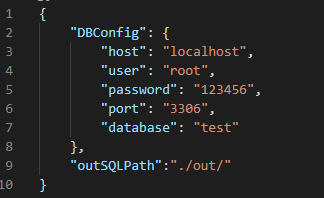
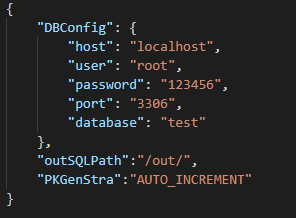
modify some bugs

diff --git a/extension.js b/extension.js
@@ -60,14 +60,14 @@ function activate(context) {
 
 	}
 
-
 	let disposable = vscode.commands.registerCommand('sql-builder.hello', function () {
-		vscode.window.showInformationMessage('Welcome to use SqlBuilder!');
+		vscode.window.showInformationMessage('Hellow! Welcome to use SQLBuilder! 你好, 欢迎使用SQLBuilder');
+		vscode.window.showInformationMessage('config 配置详情:' + JSON.stringify(config));
 	});
 
 	let execute = vscode.commands.registerCommand('sql-builder.execute', function () {
 		let errorRow = null;
-		let tableText = new TableText(1);
+		let tableText = new TableText(1, config.PKGenStra);
 		const res = getAllText();
 
 		tableText.create(res[1], res[0]);
@@ -83,7 +83,7 @@ function activate(context) {
 
 	let executeFk = vscode.commands.registerCommand('sql-builder.execute_fk', function () {
 		let errorRow = null;
-		let tableText = new TableText(2);
+		let tableText = new TableText(2, config.PKGenStra);
 		const res = getAllText();
 
 		tableText.create(res[1], res[0]);
@@ -97,9 +97,19 @@ function activate(context) {
 		dbProcess(tableText.getSqlFKAry(), res[0]);
 	});
 
+	let showConfig = vscode.commands.registerCommand('sql-builder.config', function () {
+		console.log(config);
+		const options = {
+			preview: false,
+			viewColumn: vscode.ViewColumn.Two
+		};
+		vscode.window.showTextDocument(vscode.Uri.file(__dirname + '/config.json'), options);
+	});
+
 	context.subscriptions.push(disposable);
 	context.subscriptions.push(execute);
 	context.subscriptions.push(executeFk);
+	context.subscriptions.push(showConfig);
 }
 exports.activate = activate;
 

diff --git a/source/tableText.js b/source/tableText.js
@@ -1,4 +1,4 @@
-function TableText(flag) {
+function TableText(flag, idGenStra) {
     let rows = new Array();
     let fields = new Array();
     let __flag = flag  // 0, 全部 1，建表sql，2，外键约束sql
@@ -34,7 +34,7 @@ function TableText(flag) {
                 }
             });
         }
-        let builder = new sqlStrBuilder(fields, tableName);
+        let builder = new sqlStrBuilder(fields, tableName, idGenStra);
 
         switch (__flag) {
             case 0:
@@ -181,10 +181,10 @@ function Field(str) {
 }
 
 
-function sqlStrBuilder(fieldAry, tableName) {
+function sqlStrBuilder(fieldAry, tableName, idGenStra) {
     const CONSTR_HEAD = "CREATE TABLE "
 
-    const PK = "PRIMARY KEY AUTO_INCREMENT ";
+    const PK = "PRIMARY KEY " + idGenStra + " ";
     const notNull = "NOT NULL ";
     const def = "DEFAULT";
     const comment = "COMMENT ";

diff --git a/README.md b/README.md
@@ -3,22 +3,24 @@ Easy to build MySQL table though text file
 通过文本文件轻松构建MySQL表。
 
 ## Features 功能
-省去设计完表还要去建表的麻烦。
+省去设计完表还要去建表的麻烦。  
 
 ## How to use 使用方式
 Open text file though VSCode. Ctrl + Shift + p open the commend line input commend.  
 使用VSCode打开txt文件，然后按下Ctrl + Shift + p打开命令行，输入命令
->* `SqlBuilder.hello`: Be ensure the extension has run.  
->确定插件是否在被加载
+>* `SqlBuilder.hello`: Check configuration and be ensure the extension has run.  
+>查看当前配置,确定插件是否在被加载
+>* `SqlBuilder.config`: Open config.json, restart VSCode after modified it.
+>打开config.js,进行修改后重启VSCode,config.js文件结构在下文中提到。
 >* `SqlBuilder.execute`: Create MySQL table though the text file.  
 >通过该文本文件创建MySQL表
 >* `SqlBuilder.execute_fk`: Add foreign key constraint after created all table.  
->在所有的表创建完成后，使用该命令添加外键约束。
+>在所有的表创建完成后，使用该命令添加外键约束, 确保在添加约束前所设计的表已经建好。
 
 Text file example  
 txt文件范例：  
   
->![Image text](https://user-images.githubusercontent.com/42128653/82065135-49aba000-9700-11ea-908c-adee2dd91658.png)  
+>![txt文件范例图](https://user-images.githubusercontent.com/42128653/82065135-49aba000-9700-11ea-908c-adee2dd91658.png)  
 >  
 >File name is table name.  
 >文件名就是表名  
@@ -26,18 +28,19 @@ txt文件范例：
 >txt文件中的一行由字段名，数据类型，备注信息组成, 中间由Tab键分隔，即'\t'。可以在Word或Excel中设计好之后复制到txt中。  
 >Keyword "primary key","not null","default","foreign key"can be distinguished in comment by extension.(chinese only in this version)  
 >在备注信息中，可识别的关键词有“主键”，“非空”，“默认值为”，“表外键”。  
->其中，默认值为后必须跟默认值，并且以中文标点“，”结束，例如“默认值为1，xxx”。  
->表外键关键词中以中文标点“，”开头和结尾，例如“xxx，user表外键，xxx”。
+>其中，关键词"默认值为"以中文标点“，”结束，例如“默认值为1，xxx”。  
+>关键词"表外键"以中文标点“，”开头和结尾，例如“xxx，user表外键，xxx”。
 
 config.json：在config.json中配置信息。
-> ![Image text](https://user-images.githubusercontent.com/42128653/82065125-43b5bf00-9700-11ea-8235-e54448331dc5.png)  
+> ![config.json文件结构图](https://user-images.githubusercontent.com/42128653/82110707-02122c00-9773-11ea-89ba-3702e73e8bb8.png)  
 >  
 >`DBConfig`:Config database. 配置数据库的信息。  
 >`outSQLPath`:Config path,output SQL file, none means dont output SQL file. 配置输出的SQL语句文件的路径，为空则表示不输出SQL语句文件
+>`PKGenStra`:Primary key generation strategy, described by SQL. 主键生成策略，用SQL的方式规定。
 
 ## Requirements 使用需求
-* `nodejs mysql module`: Be sure you had nodejs mysql module , if not, install before apply, such as "npm install mysql".  
-   在使用前确保安装了nodejs mysql模块。
+* `nodejs mysql module`: Extension has included nodejs mysql module already, if not running, install it before apply, such as "npm install mysql".  
+这个插件已经包含了nodejs mysql 包, 如果插件无法正常运行,请安装 nodejs mysql包之后再试。
 
 ## Contact 联系我
 

diff --git a/CHANGELOG.md b/CHANGELOG.md
@@ -1,9 +1,5 @@
 # Change Log
 
-All notable changes to the "sql-builder" extension will be documented in this file.
-
-Check [Keep a Changelog](http://keepachangelog.com/) for recommendations on how to structure this file.
-
-## [Unreleased]
+## [0.0.1]
 
 - Initial release
